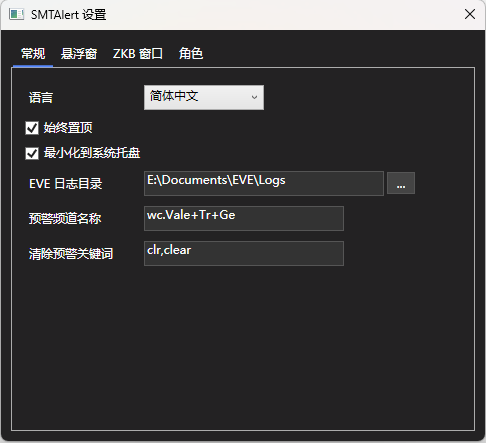
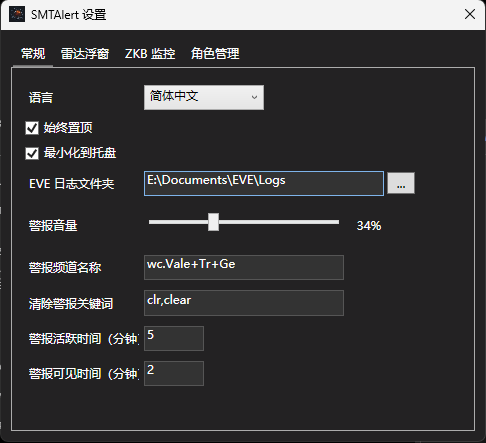
更新界面截图

diff --git a/README_EN.md b/README_EN.md
@@ -57,6 +57,7 @@ A standalone WPF desktop application extracted from [SMT (Slazanger's Eve Map To
 ![Main Window](Images/main_window.png)
 ![Alert Radar](Images/overlay.png)
 ![ZKB Monitor](Images/zkb_monitor.png)
+![Alert Channel](Images/alert_channel.png)
 ![Settings](Images/settings.png)
 
 ## License

diff --git a/README.md b/README.md
@@ -57,6 +57,7 @@
 ![主界面](Images/main_window.png)
 ![预警雷达](Images/overlay.png)
 ![ZKB推送](Images/zkb_monitor.png)
+![预警频道监控](Images/alert_channel.png)
 ![设置](Images/settings.png)
 
 ## 许可证
